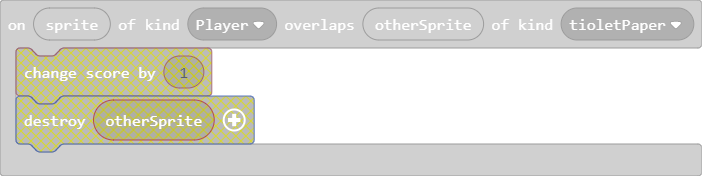
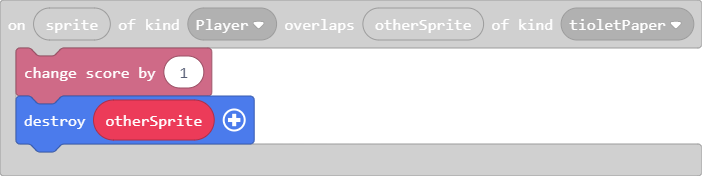
Update main.blocks, main.ts

Changed region(s): [[0.0, 0.2557, 0.3889, 0.8807]]

diff --git a/main.ts b/main.ts
@@ -121,7 +121,8 @@ namespace myTiles {
 `
 }
 sprites.onOverlap(SpriteKind.Player, SpriteKind.tioletPaper, function (sprite, otherSprite) {
-	
+    info.changeScoreBy(1)
+    otherSprite.destroy()
 })
 sprites.onOverlap(SpriteKind.Player, SpriteKind.Managers, function (sprite, otherSprite) {
     otherSprite.destroy()
